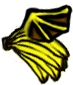
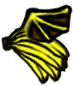
Fix the lines out the bottom of bananas

diff --git a/inappropriate-horse-racing-tactics/src/me/teaisaweso/games/ld24/SlowDownObstacle.java b/inappropriate-horse-racing-tactics/src/me/teaisaweso/games/ld24/SlowDownObstacle.java
@@ -3,6 +3,7 @@ package me.teaisaweso.games.ld24;
 import com.badlogic.gdx.Gdx;
 import com.badlogic.gdx.audio.Sound;
 import com.badlogic.gdx.graphics.Texture;
+import com.badlogic.gdx.graphics.Texture.TextureFilter;
 import com.badlogic.gdx.graphics.g2d.Sprite;
 import com.badlogic.gdx.math.Vector2;
 import com.badlogic.gdx.physics.box2d.Body;
@@ -30,6 +31,11 @@ public class SlowDownObstacle extends PhysicalObstacle {
         }
     }
 
+    private static void setupFiltering(Texture texture) {
+        texture.setFilter(TextureFilter.Linear, TextureFilter.Linear);
+        // texture.setWrap(TextureWrap.Repeat, TextureWrap.Repeat);
+    }
+
     private static void loadTextures() {
         sUnevolvedTexture = new Texture(
                 Gdx.files.internal("assets/Asset_Banana_1.png"));
@@ -43,6 +49,12 @@ public class SlowDownObstacle extends PhysicalObstacle {
                 Gdx.files.internal("assets/Asset_Banana_Tentacle1.png"));
         sTentacleTextureLow = new Texture(
                 Gdx.files.internal("assets/Asset_Banana_Tentacle2.png"));
+        setupFiltering(sUnevolvedTexture);
+        setupFiltering(sPoofTexture);
+        setupFiltering(sFlapTextureHigh);
+        setupFiltering(sFlapTextureLow);
+        setupFiltering(sTentacleTextureHigh);
+        setupFiltering(sTentacleTextureLow);
     }
 
     public SlowDownObstacle(Body b) {
